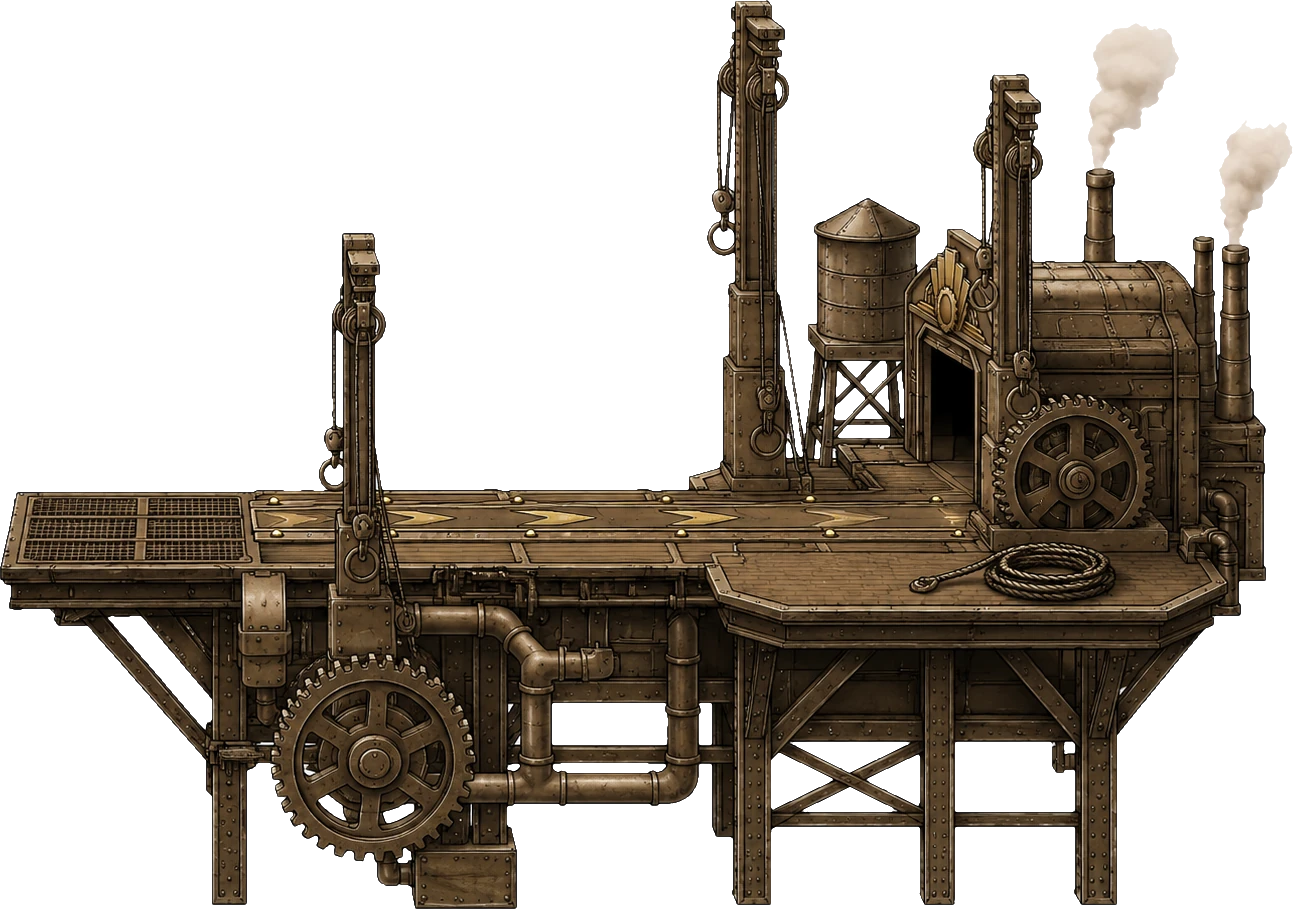
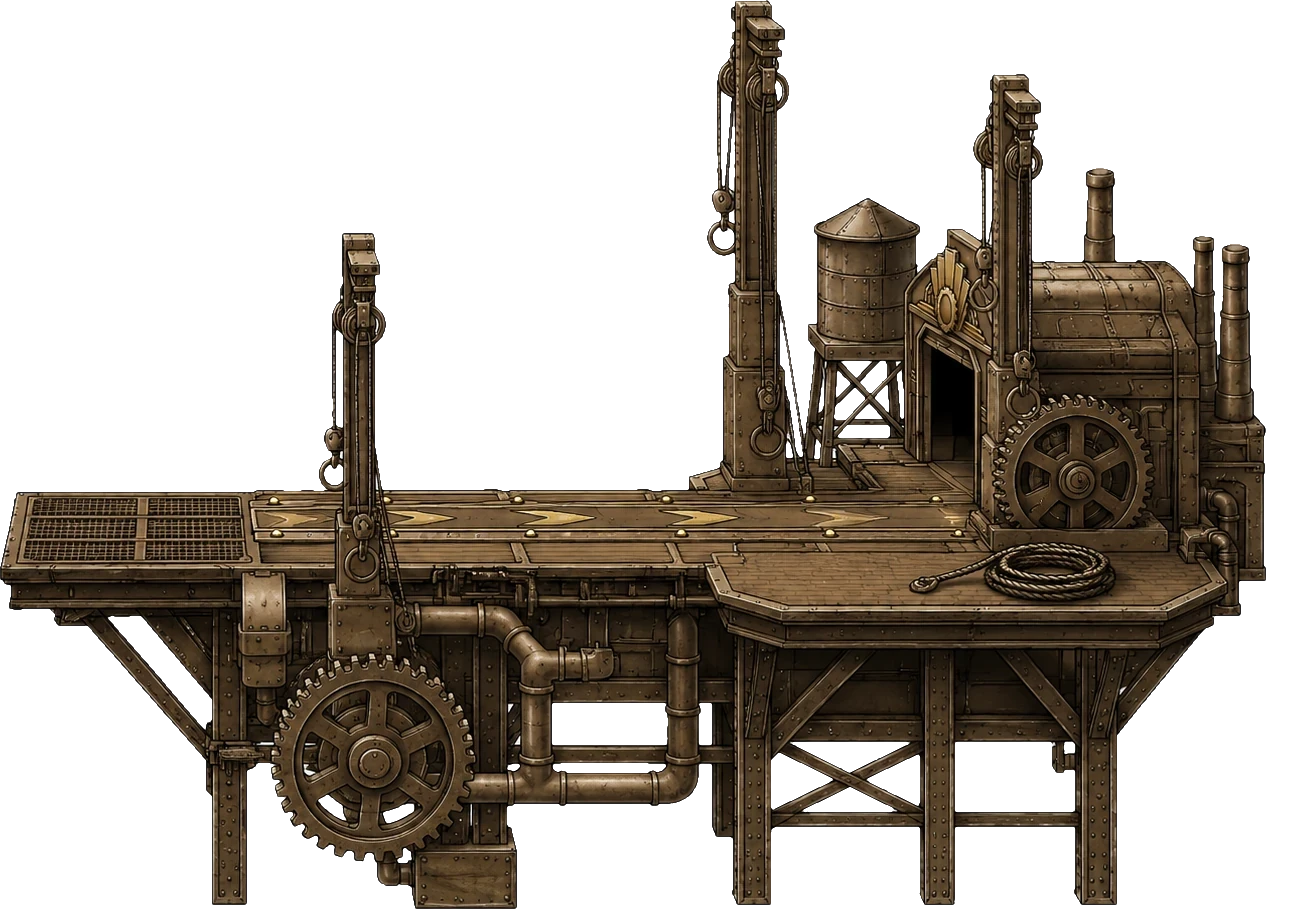
Add files via upload

Changed region(s): [[0.8353, 0.0308, 0.9281, 0.1848], [0.9281, 0.1232, 1.0, 0.2772]]

diff --git a/bosses.js b/bosses.js
@@ -8959,11 +8959,39 @@ function drawFireballs() {
   function lpGeom() {
     const base = window.__airborneLandingPlatform();
     if (!lpReady || !lpImg.naturalWidth) return Object.assign({ art: false }, base);
-    const w = Math.min(W * 0.92, base.w), h = w * lpImg.naturalHeight / lpImg.naturalWidth;   // same width as the take-off platform
+    const w = Math.min(W * 0.95, base.w * 1.25), h = w * lpImg.naturalHeight / lpImg.naturalWidth;   // same width as the take-off platform
     return { art: true, w: w, h: h, deckY: base.deckY, restFrac: 0.643, center: 0.74, x0: 0.58, x1: 0.93 };   // original orientation: deck on the right of the sprite, platform flush with the right edge
   }
+  // animated steam rising from the platform's chimneys (the old baked-in smoke was removed from the art)
+  const PLAT_STEAM = [[1100, 172, 1], [1235, 246, 0.8], [1203, 240, 0.5]];
+  function drawPlatSteam(p) {
+    const nowT = performance.now(), dt = p._stT ? Math.min(0.05, (nowT - p._stT) / 1000) : 0.016; p._stT = nowT;
+    const k = p.w / 1293, top = p.surfaceY - p.deckFromTop * p.h;
+    const P = p._st || (p._st = []);
+    p._stE = p._stE || [0, 0, 0];
+    PLAT_STEAM.forEach(function (e, i) {
+      p._stE[i] += dt;
+      const ex = p.x + e[0] * k;
+      if (p._stE[i] >= 0.11 / e[2] && ex > -40 && ex < W + 40) {
+        p._stE[i] = 0;
+        P.push({ ox: e[0] * k + (Math.random() - 0.5) * 3 * k, y: top + e[1] * k, r: (11 + Math.random() * 7) * k, g: (22 + Math.random() * 14) * k, vy: (46 + Math.random() * 30) * k * 1.6, age: 0, life: 2.2 + Math.random() * 1.4, a: 0.5 + Math.random() * 0.3, w: (Math.random() - 0.3) });
+      }
+    });
+    if (P.length > 140) P.splice(0, P.length - 140);
+    ctx.save();
+    for (let i = P.length - 1; i >= 0; i--) {
+      const q = P[i]; q.age += dt;
+      if (q.age >= q.life) { P.splice(i, 1); continue; }
+      q.y -= q.vy * dt * (1 - 0.35 * q.age / q.life); q.ox += (q.w * 10 - 14) * k * dt * (0.6 + q.age / q.life); q.r += q.g * dt;
+      const u = q.age / q.life, al = q.a * Math.min(1, q.age * 3) * (1 - u) * (1 - u * 0.4), x = p.x + q.ox;
+      const gr = ctx.createRadialGradient(x, q.y, 0, x, q.y, q.r);
+      gr.addColorStop(0, "rgba(247,240,228," + al.toFixed(3) + ")"); gr.addColorStop(0.6, "rgba(232,222,206," + (al * 0.6).toFixed(3) + ")"); gr.addColorStop(1, "rgba(220,210,195,0)");
+      ctx.fillStyle = gr; ctx.beginPath(); ctx.arc(x, q.y, q.r, 0, 6.2832); ctx.fill();
+    }
+    ctx.restore();
+  }
   function drawLandingPlatformArt(p) {
-    if (p.art && lpReady) ctx.drawImage(lpImg, p.x, p.surfaceY - p.deckFromTop * p.h, p.w, p.h);
+    if (p.art && lpReady) { ctx.drawImage(lpImg, p.x, p.surfaceY - p.deckFromTop * p.h, p.w, p.h); drawPlatSteam(p); }
     else if (window.__airborneDrawLandingPlatform) window.__airborneDrawLandingPlatform(p.x);
   }
   function updatePlatLanding(dt) {
@@ -10102,7 +10130,19 @@ function drawFireballs() {
     }
   }
 
+  // during the bonus round only bonus items exist: no gameplay hearts, shields, power-ups, coins, crystals, checkpoint or lucky coin
+  function purgeGameplayItems() {
+    try { if (typeof healPickup !== "undefined") healPickup = null; } catch (e) {}
+    try { if (typeof shieldPickup !== "undefined") shieldPickup = null; } catch (e) {}
+    try { powerup = null; } catch (e) {}
+    try { luckyCoin = null; } catch (e) {}
+    try { checkpointPickup = null; } catch (e) {}
+    try { window.__airborneHitCoins = []; } catch (e) {}
+    try { if (typeof window.__airborneResetCampaignCollectibles === "function") window.__airborneResetCampaignCollectibles(); } catch (e) {}
+    try { if (window.__airborneObstacles) window.__airborneObstacles = window.__airborneObstacles.filter(function (o) { return !(o && o.isCheckpointRing); }); } catch (e) {}
+  }
   function updateBonusRound(dt) {
+    if (bonusPending || bonusActive) purgeGameplayItems();
     if (bonusPending && performance.now() >= bonusPendingAt) {
       bonusPending = false;
       startBonusRound(bonusPendingType);

diff --git a/player-obstacles.js b/player-obstacles.js
@@ -3149,7 +3149,7 @@ window.__airborneRingDebug = false;
     o._wAcc = (o._wAcc || 0) + dt;
     while (o._wAcc >= 0.05) {
       o._wAcc -= 0.05;
-      if (Math.random() < 0.5) P.push({ x: o.x + o.w * (0.20 + Math.random() * 0.5), y: drawY + o.h * (0.41 + Math.random() * 0.18), vx: 380 + Math.random() * 320 + speed * 0.5, age: 0, life: 0.22 + Math.random() * 0.18, len: (28 + Math.random() * 46) * sc * 0.5 });
+      if (Math.random() < 0.5) P.push({ x: o.x + o.w * (0.20 + Math.random() * 0.5), y: drawY + o.h * (0.41 + Math.random() * 0.18), vx: 380 + Math.random() * 320 + speed * 0.5, age: 0, life: 0.22 + Math.random() * 0.18, len: (28 + Math.random() * 46) * sc * 0.25 });
     }
     if (P.length > 24) P.splice(0, P.length - 24);
     ctx.save(); ctx.lineCap = "round"; ctx.lineWidth = 1.2; ctx.globalCompositeOperation = "source-over";
